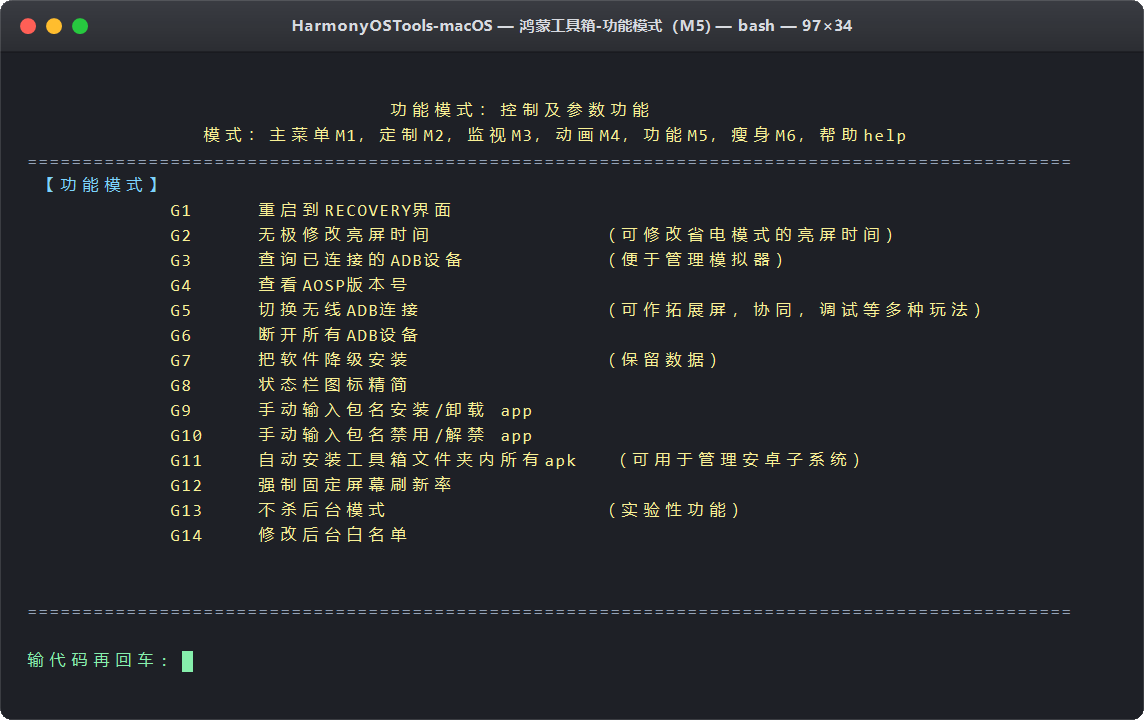
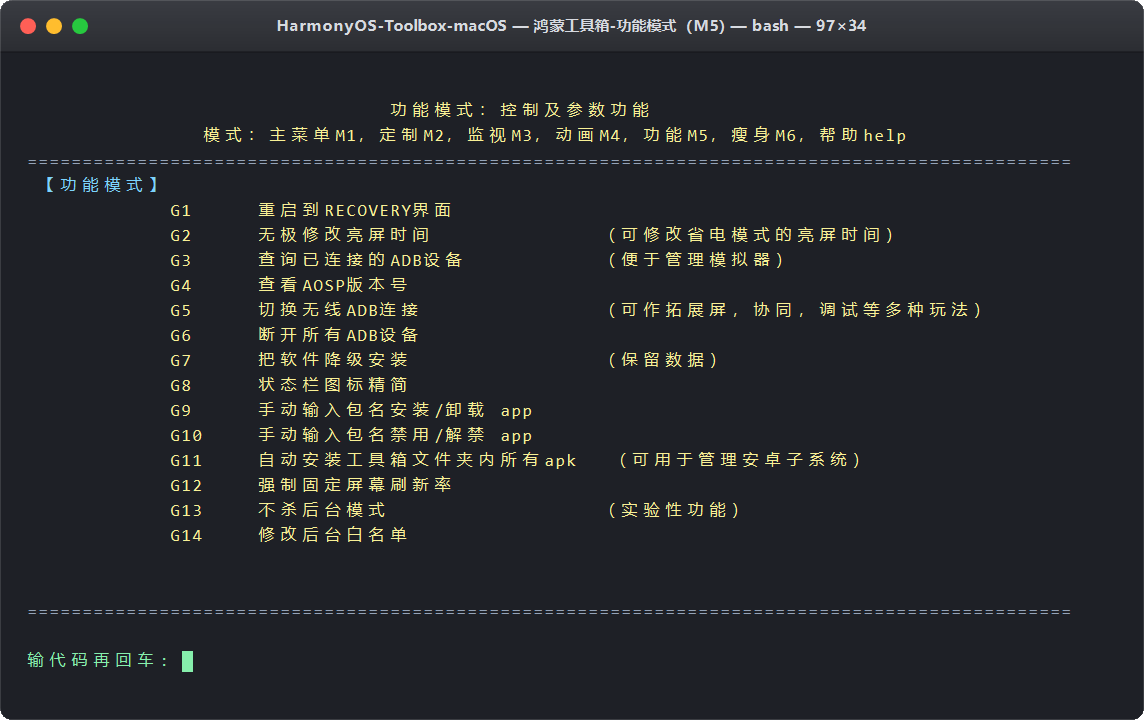
docs: 同步仓库名称为 HarmonyOS-Toolbox-macOS 并更新预览图

Changed region(s): [[0.2445, 0.0, 0.7642, 0.061]]

diff --git a/README.md b/README.md
@@ -1,4 +1,4 @@
-# HarmonyOSTools-macOS（鸿蒙/EMUI 工具箱 macOS 原生移植版）
+# HarmonyOS-Toolbox-macOS（鸿蒙/EMUI 工具箱 macOS 原生移植版）
 
 > **致谢与防倒卖声明**
 > * **原作者**：哔哩哔哩 UP 主 **[@一只靓仔琦](https://www.bilibili.com/video/BV1yF411E7c8)**（原版更新时间：`2022.08.06`）
@@ -64,8 +64,8 @@
 
 #### 方式一：通过 `git clone` 下载（推荐，自动保留执行权限）
 ```bash
-git clone https://github.com/NovanJex/HarmonyOSTools-macOS.git
-cd HarmonyOSTools-macOS
+git clone https://github.com/NovanJex/HarmonyOS-Toolbox-macOS.git
+cd HarmonyOS-Toolbox-macOS
 ./启动鸿蒙工具箱.command
 ```
 或者直接在 Finder（访达）中双击 **`启动鸿蒙工具箱.command`** 即可自动打开 Mac「终端」运行。
@@ -73,7 +73,7 @@ cd HarmonyOSTools-macOS
 #### 方式二：直接下载 ZIP 压缩包或从 U 盘拷贝
 如果从网页直接下载 ZIP 或通过 Windows U 盘拷贝到 Mac，首次双击可能会提示“没有权限打开”或安全拦截。只需打开 Mac「终端 (Terminal)」，进入本文件夹执行一次以下命令赋予权限并移除苹果隔离属性：
 ```bash
-cd /path/to/HarmonyOSTools-macOS
+cd /path/to/HarmonyOS-Toolbox-macOS
 chmod +x *.command adb
 xattr -cr .
 ```
@@ -84,7 +84,7 @@ xattr -cr .
 ## 五、 目录结构说明
 
 ```text
-HarmonyOSTools-macOS/
+HarmonyOS-Toolbox-macOS/
 ├── 启动鸿蒙工具箱.command       # 主程序启动脚本（macOS 双击运行）
 ├── 工具箱无效运行这个.command   # ADB 服务异常重置修复脚本（macOS 双击运行）
 ├── adb                          # Google 官方 macOS 通用版 ADB（原生支持 Apple Silicon M1~M4 及 Intel）
